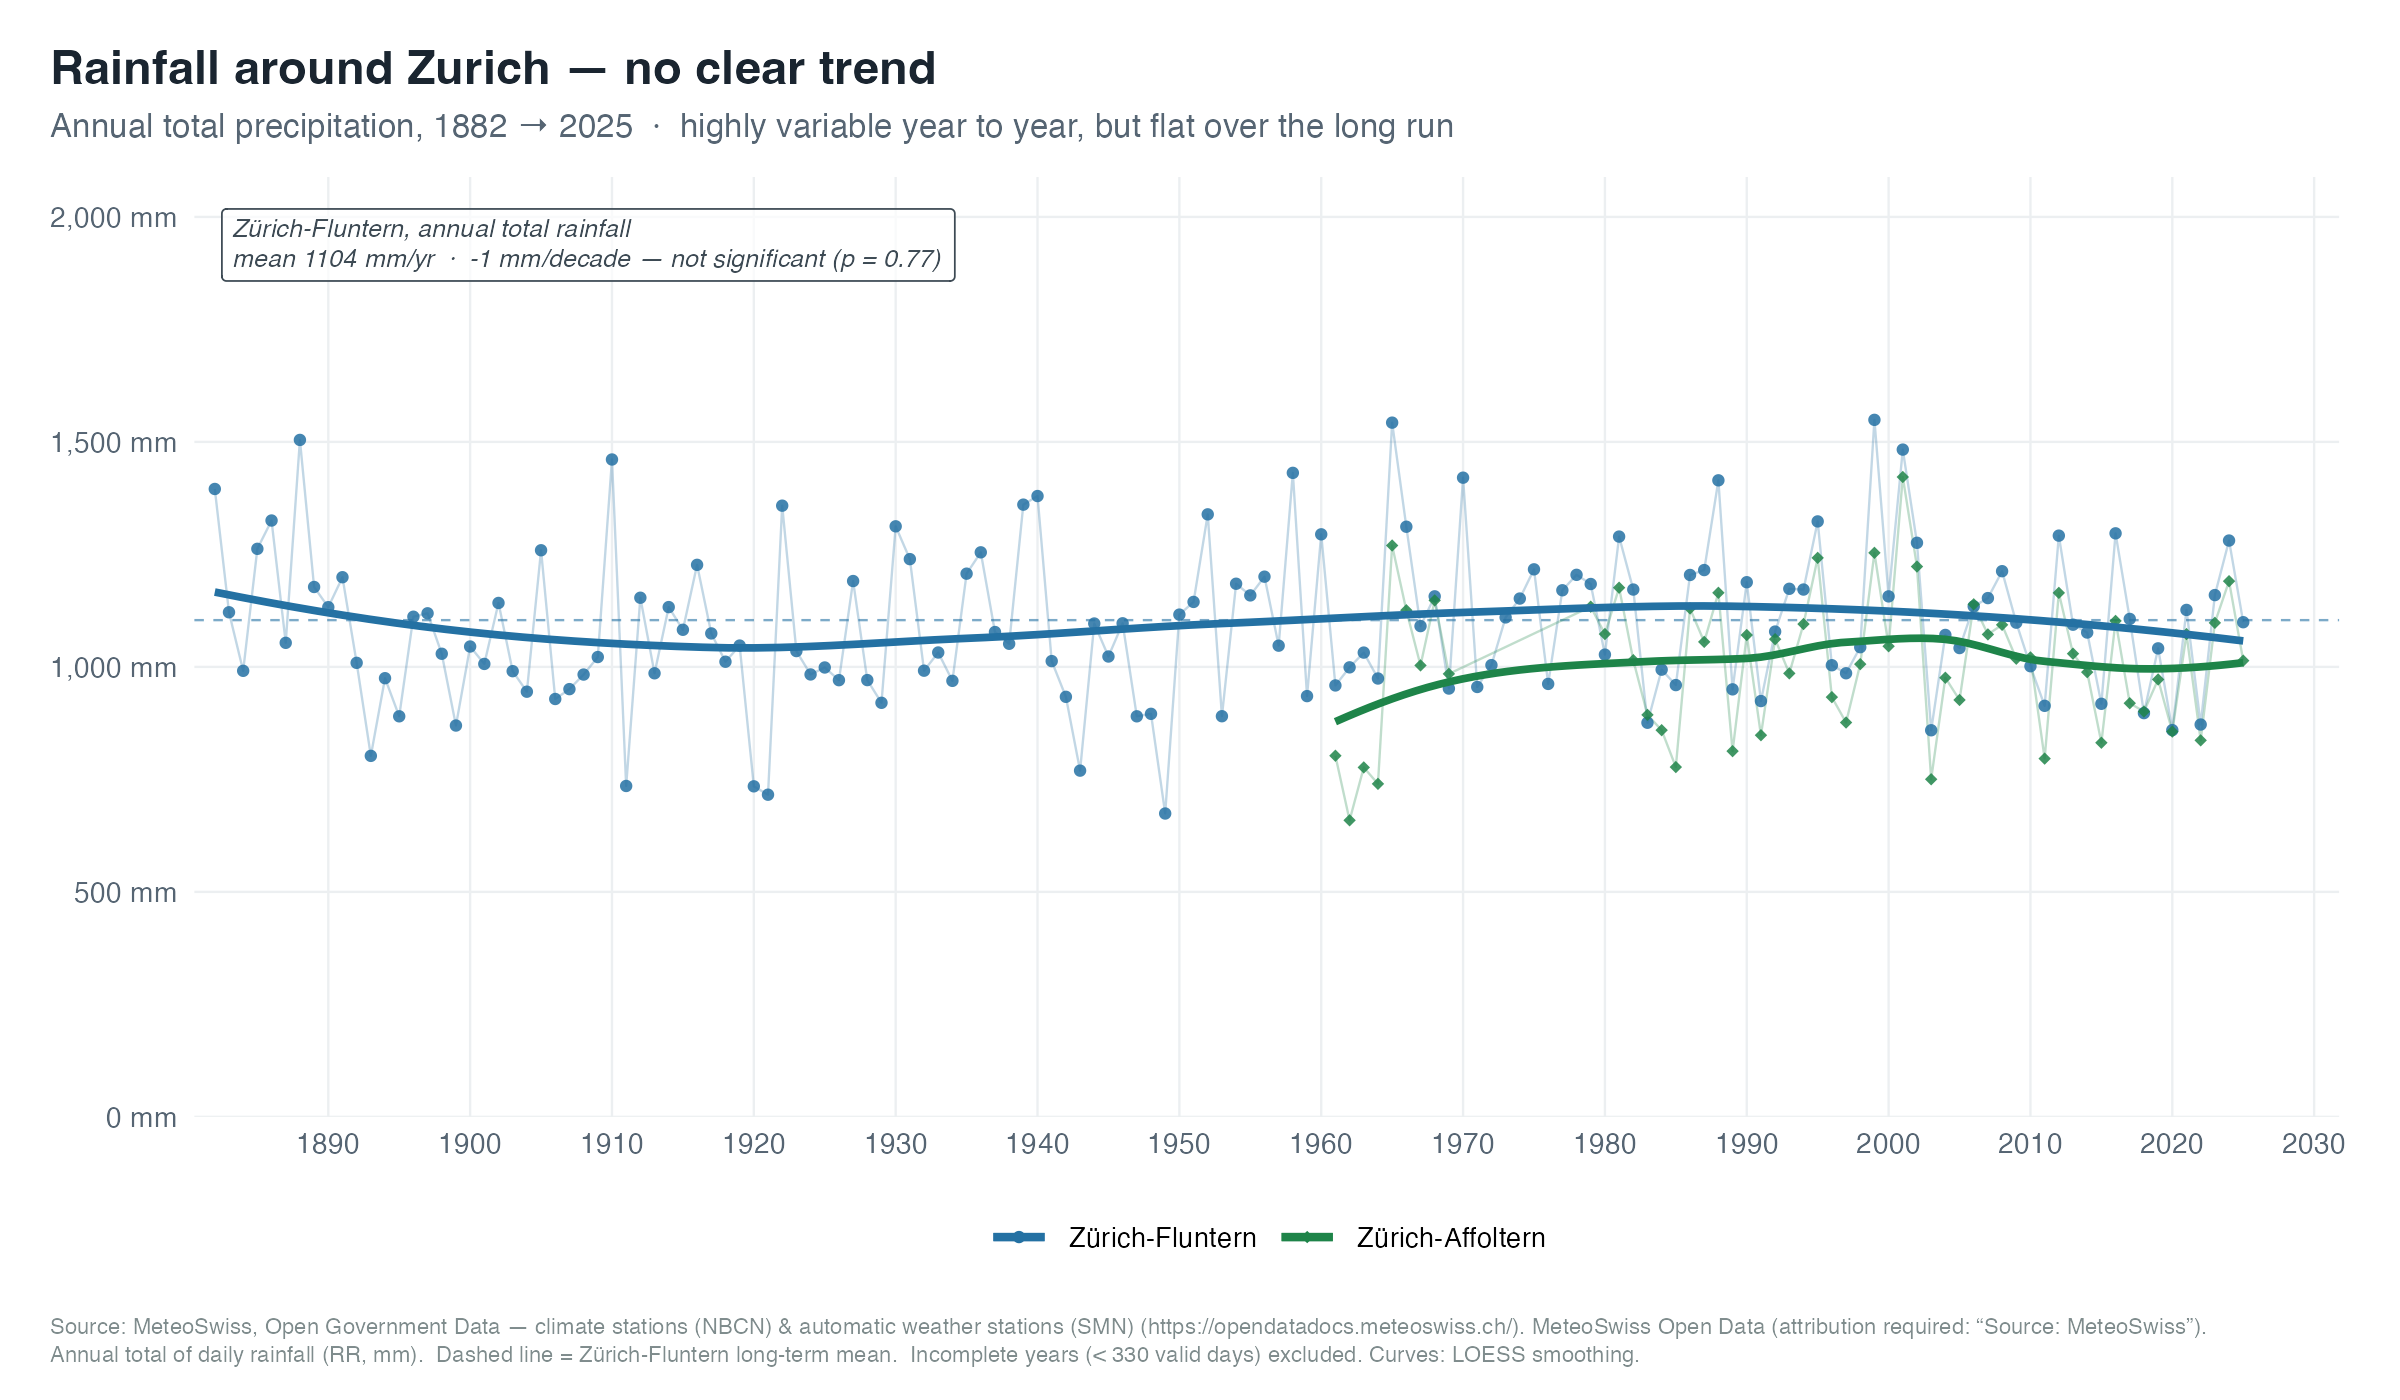
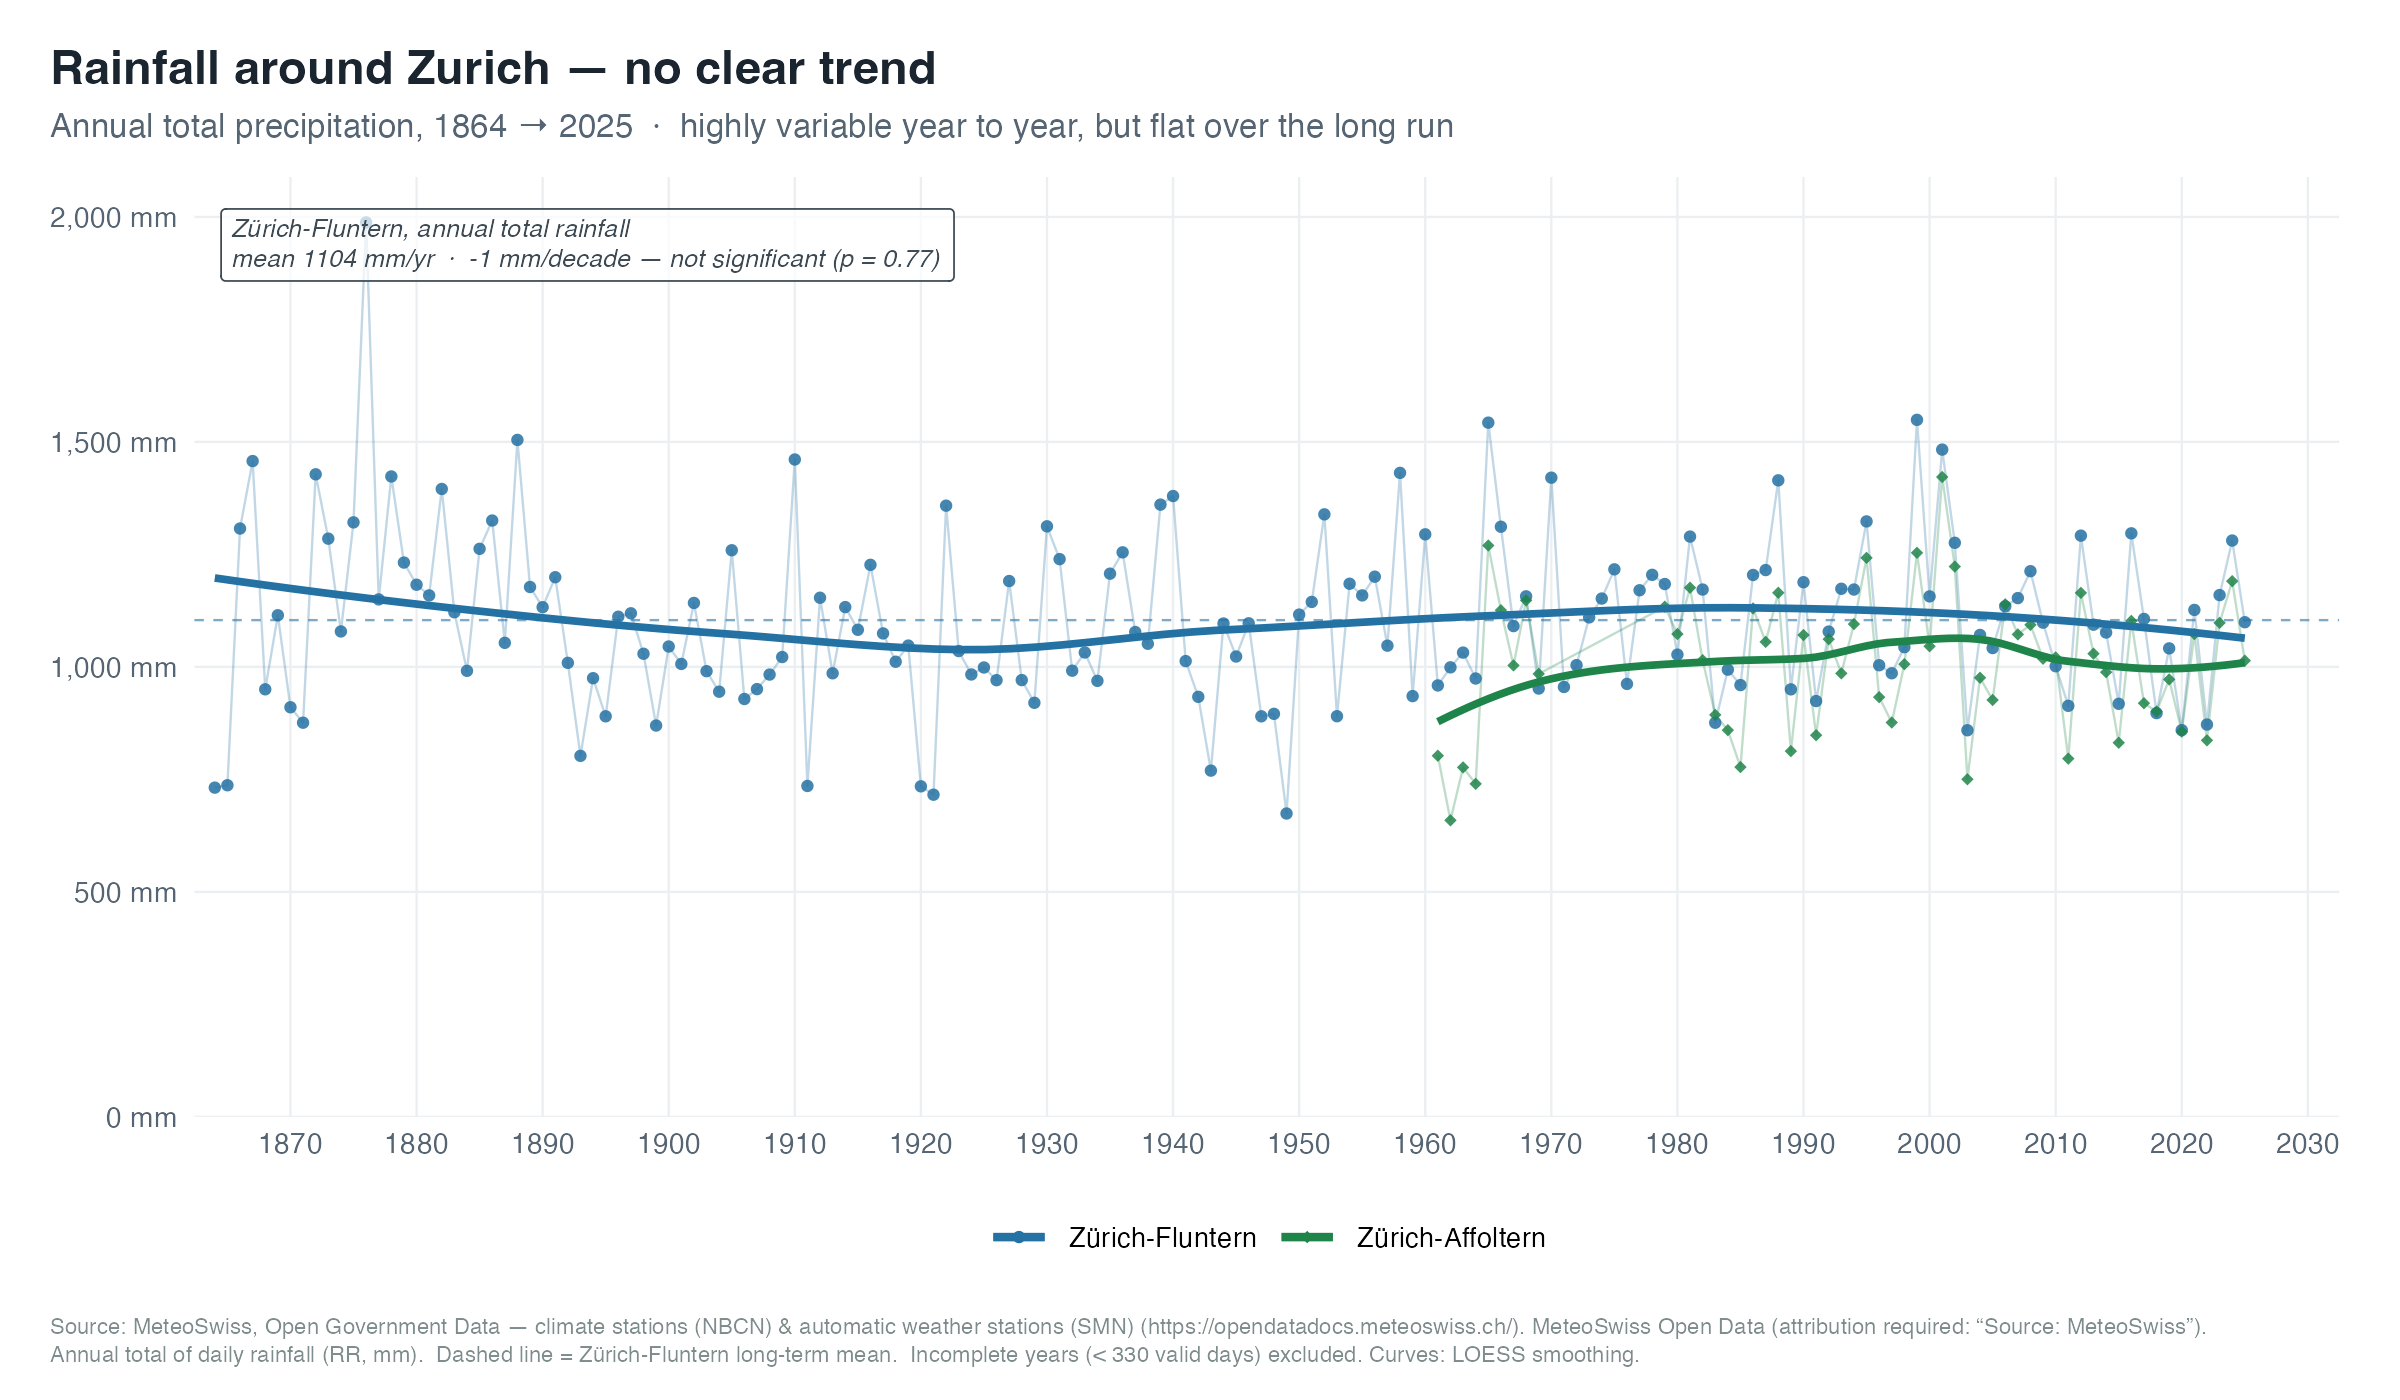
Refresh data through 2026-08 and fix rainfall/YTD narrative bugs
- Castanet: recompute TNTXM as (TN+TX)/2 for consistency with the
  Zurich/Karlsruhe source modules, instead of using Meteo-France own
  daily-mean field.
- YTD chart title/subtitle now branch on whether the current year is
  actually the record, instead of always claiming "warmest on record"
  (Karlsruhe 2026 ranks #2, behind 2007).
- Rainfall significance text now reflects the real p-value instead of
  a hardcoded "not significant" (Karlsruhe rainfall trend is in fact
  significant, p = 0.00).
- Fix Zurich rain chart silently dropping 1864-1881 by using the rain
  series own year range instead of the temperature series range.
- HTML report last-decade table now flags the in-progress year
  "(to date)", matching the README.

diff --git a/README.md b/README.md
@@ -29,12 +29,12 @@ steadily and continuously.
 | Headline number | Value |
 |---|---:|
 | Warming rate, mean temperature (Toulouse-Blagnac) | **+0.34 °C / decade** |
-| Total rise over 78 years (1947 → 2025) | **+2.7 °C** |
+| Total rise over 78 years (1947 → 2025) | **+2.6 °C** |
 | Mean of the last decade (vs 12.9 °C in 1947–1956) | **15.2 °C** |
 | Frost days per year, 1947–1956 → 2016–2025 | **46 → 18** |
 | Hot days (≥ 30 °C) per year, 1947–1956 → 2016–2025 | **24 → 47** |
 | Complete station-years analysed | **101** |
-| 2026 year-to-date (Jan 1 – Aug 8), against 79 prior years | **#1 of 80 — record** |
+| 2026 year-to-date (Jan 1 – Aug 11), against 79 prior years | **#1 of 80 — record** |
 
 ### The long view: annual means
 
@@ -44,20 +44,20 @@ steadily and continuously.
 highlight the climate trend; the points are annual means. The green series (Auzeville-Tolosane-INRAE) is the station on the edge of Castanet-Tolosan; it tracks the long Toulouse-Blagnac reference mean almost exactly.</sub>
 
 At Toulouse-Blagnac — the station with the longest record (1947→2025) — the annual
-mean temperature rises by **+0.34 °C per decade**, about **+2.7 °C** over the
+mean temperature rises by **+0.34 °C per decade**, about **+2.6 °C** over the
 whole period. The local Auzeville-Tolosane-INRAE station, which is the station on the edge of Castanet-Tolosan, only covers 2004→2025. Its slope over that shorter, more recent window is steeper (+0.83 °C/decade) — but so is Toulouse-Blagnac’s over the same years (+0.91 °C/decade): recent decades warm faster, and the local station sits almost exactly on the regional mean. The local and regional signals are the same.
 
 ### This year, against every year before it
 
 ![Per-year mean over the same Jan-to-cutoff window, as a departure from the long-term normal, with 2026 the largest bar](outputs/figures/temperature_ytd.png)
 
-<sub>Each bar is a year’s mean over the <em>same window</em> — <strong>Jan 1 – Aug 8</strong> —
-shown as its departure from the long-term normal (13.4 °C): red above, blue
+<sub>Each bar is a year’s mean over the <em>same window</em> — <strong>Jan 1 – Aug 11</strong> —
+shown as its departure from the long-term normal (13.5 °C): red above, blue
 below. Comparing each year over the identical part-of-year is the only fair way to place
 a year that is still in progress against history. The bars swing from blue to red over
 the decades — the warming.</sub>
 
-Measured like-for-like, **2026 is the warmest Jan 1 – Aug 8 in 80 years** at Toulouse-Blagnac: **16.7 °C** — +0.9 °C above the previous record (2025, 15.8 °C) and **+3.2 °C above the long-term normal** (13.4 °C). This is exactly the point of the chart: a year still in progress can already stand out against the whole record.
+Measured like-for-like, **2026 is the warmest Jan 1 – Aug 11 in 80 years** at Toulouse-Blagnac: **16.8 °C** — +0.8 °C above the previous record (2025, 16.0 °C) and **+3.3 °C above the long-term normal** (13.5 °C). This is exactly the point of the chart: a year still in progress can already stand out against the whole record.
 
 > [!NOTE]
 > A partial year cannot be compared to other years’ *full-year* means — it is still
@@ -107,17 +107,17 @@ At Toulouse-Blagnac, the all-time heat (2023-08-23) is far more recent than the 
 
 | Year | Min (TN) | Max (TX) | Mean |
 |---|---:|---:|---:|
-| 2016 | 10.0 | 19.3 | **14.7** |
+| 2016 | 10.0 | 19.3 | **14.6** |
 | 2017 | 9.7 | 19.5 | **14.6** |
 | 2018 | 10.7 | 19.5 | **15.1** |
 | 2019 | 10.0 | 19.9 | **15.0** |
 | 2020 | 10.6 | 20.2 | **15.4** |
 | 2021 | 9.7 | 19.1 | **14.4** |
 | 2022 | 11.2 | 21.3 | **16.3** |
-| 2023 | 10.7 | 20.8 | **15.8** |
+| 2023 | 10.7 | 20.8 | **15.7** |
 | 2024 | 10.5 | 19.6 | **15.1** |
-| 2025 | 10.7 | 20.6 | **15.7** |
-| 2026 *(to date)* | 11.4 | 21.9 | **16.7** |
+| 2025 | 10.7 | 20.6 | **15.6** |
+| 2026 *(to date)* | 11.5 | 22.1 | **16.8** |
 
 ### Frost days halved, hot days doubled
 
@@ -142,17 +142,14 @@ Temperature is only half of a climate. Rainfall tells a very different — and m
 quieter — story: over the same 79 years, annual precipitation at
 Toulouse-Blagnac shows **no statistically significant trend**.
 
-![Annual rainfall totals around Castanet-Tolosan, with a flat long-term trend](outputs/figures/rain_series.png)
+![Annual rainfall totals around Castanet-Tolosan](outputs/figures/rain_series.png)
 
 <sub>Annual total precipitation. The dashed line is Toulouse-Blagnac’s long-term mean
 (633 mm/yr); the thick curves are LOESS smoothings. The year-to-year swings are
 large — from 378 mm (1967) to 915 mm (1993) —
-but the long-run slope (-8 mm/decade) is flat and not significant
-(p = 0.16).</sub>
+but the long-run slope (-8 mm/decade) is flat and not significant (p = 0.16).</sub>
 
-That contrast is the point. The very same daily records that show an unmistakable,
-statistically strong warming signal show *no* comparable signal in how much it rains. A
-dataset that manufactured trends would have produced one here too; this one does not.
+That contrast is the point. The very same daily records that show an unmistakable, statistically strong warming signal show *no* comparable signal in how much it rains. A dataset that manufactured trends would have produced one here too; this one does not.
 
 ![Monthly rainfall through the year at Toulouse-Blagnac, one line per year](outputs/figures/rain_climatology.png)
 
@@ -213,7 +210,7 @@ steadily and continuously.
 | Frost days per year, 1882–1891 → 2016–2025 | **111 → 61** |
 | Hot days (≥ 30 °C) per year, 1882–1891 → 2016–2025 | **4 → 12** |
 | Complete station-years analysed | **190** |
-| 2026 year-to-date (Jan 1 – Aug 9), against 143 prior years | **#1 of 144 — record** |
+| 2026 year-to-date (Jan 1 – Aug 12), against 143 prior years | **#1 of 144 — record** |
 
 ### The long view: annual means
 
@@ -230,13 +227,13 @@ whole period. The local Zürich-Affoltern station, which is MeteoSwiss’s autom
 
 ![Per-year mean over the same Jan-to-cutoff window, as a departure from the long-term normal, with 2026 the largest bar](outputs/zurich/figures/temperature_ytd.png)
 
-<sub>Each bar is a year’s mean over the <em>same window</em> — <strong>Jan 1 – Aug 9</strong> —
-shown as its departure from the long-term normal (9.2 °C): red above, blue
+<sub>Each bar is a year’s mean over the <em>same window</em> — <strong>Jan 1 – Aug 12</strong> —
+shown as its departure from the long-term normal (9.3 °C): red above, blue
 below. Comparing each year over the identical part-of-year is the only fair way to place
 a year that is still in progress against history. The bars swing from blue to red over
 the decades — the warming.</sub>
 
-Measured like-for-like, **2026 is the warmest Jan 1 – Aug 9 in 144 years** at Zürich-Fluntern: **12.6 °C** — +0.5 °C above the previous record (2022, 12.1 °C) and **+3.4 °C above the long-term normal** (9.2 °C). This is exactly the point of the chart: a year still in progress can already stand out against the whole record.
+Measured like-for-like, **2026 is the warmest Jan 1 – Aug 12 in 144 years** at Zürich-Fluntern: **12.8 °C** — +0.6 °C above the previous record (2022, 12.2 °C) and **+3.5 °C above the long-term normal** (9.3 °C). This is exactly the point of the chart: a year still in progress can already stand out against the whole record.
 
 > [!NOTE]
 > A partial year cannot be compared to other years’ *full-year* means — it is still
@@ -296,7 +293,7 @@ At Zürich-Fluntern, the all-time heat (2026-06-27) is far more recent than the 
 | 2023 | 7.8 | 15.8 | **11.8** |
 | 2024 | 7.7 | 15.0 | **11.4** |
 | 2025 | 7.0 | 14.9 | **11.0** |
-| 2026 *(to date)* | 7.7 | 17.5 | **12.6** |
+| 2026 *(to date)* | 7.8 | 17.7 | **12.8** |
 
 ### Frost days halved, hot days doubled
 
@@ -321,17 +318,14 @@ Temperature is only half of a climate. Rainfall tells a very different — and m
 quieter — story: over the same 162 years, annual precipitation at
 Zürich-Fluntern shows **no statistically significant trend**.
 
-![Annual rainfall totals around Zurich, with a flat long-term trend](outputs/zurich/figures/rain_series.png)
+![Annual rainfall totals around Zurich](outputs/zurich/figures/rain_series.png)
 
 <sub>Annual total precipitation. The dashed line is Zürich-Fluntern’s long-term mean
 (1104 mm/yr); the thick curves are LOESS smoothings. The year-to-year swings are
 large — from 674 mm (1949) to 1988 mm (1876) —
-but the long-run slope (-1 mm/decade) is flat and not significant
-(p = 0.77).</sub>
+but the long-run slope (-1 mm/decade) is flat and not significant (p = 0.77).</sub>
 
-That contrast is the point. The very same daily records that show an unmistakable,
-statistically strong warming signal show *no* comparable signal in how much it rains. A
-dataset that manufactured trends would have produced one here too; this one does not.
+That contrast is the point. The very same daily records that show an unmistakable, statistically strong warming signal show *no* comparable signal in how much it rains. A dataset that manufactured trends would have produced one here too; this one does not.
 
 ![Monthly rainfall through the year at Zürich-Fluntern, one line per year](outputs/zurich/figures/rain_climatology.png)
 
@@ -392,7 +386,7 @@ steadily and continuously.
 | Frost days per year, 1876–1885 → 2016–2025 | **67 → 59** |
 | Hot days (≥ 30 °C) per year, 1876–1885 → 2016–2025 | **7 → 26** |
 | Complete station-years analysed | **148** |
-| 2026 year-to-date (Jan 1 – Aug 9), against 149 prior years | **#2 of 150** |
+| 2026 year-to-date (Jan 1 – Aug 12), against 149 prior years | **#2 of 150** |
 
 ### The long view: annual means
 
@@ -409,13 +403,13 @@ whole period. Karlsruhe-Wolfartsweier carries no temperature record; Rheinstette
 
 ![Per-year mean over the same Jan-to-cutoff window, as a departure from the long-term normal, with 2026 the largest bar](outputs/karlsruhe/figures/temperature_ytd.png)
 
-<sub>Each bar is a year’s mean over the <em>same window</em> — <strong>Jan 1 – Aug 9</strong> —
-shown as its departure from the long-term normal (10.8 °C): red above, blue
+<sub>Each bar is a year’s mean over the <em>same window</em> — <strong>Jan 1 – Aug 12</strong> —
+shown as its departure from the long-term normal (10.9 °C): red above, blue
 below. Comparing each year over the identical part-of-year is the only fair way to place
 a year that is still in progress against history. The bars swing from blue to red over
 the decades — the warming.</sub>
 
-Measured like-for-like over Jan 1 – Aug 9, 2026 currently ranks **#2 of 150** at Rheinstetten (13.1 °C). The warmest such window on record remains 2007 (13.5 °C).
+Measured like-for-like over Jan 1 – Aug 12, 2026 currently ranks **#2 of 150** at Rheinstetten (13.3 °C). The warmest such window on record remains 2007 (13.6 °C).
 
 > [!NOTE]
 > A partial year cannot be compared to other years’ *full-year* means — it is still
@@ -473,7 +467,7 @@ At Rheinstetten, the all-time heat (2026-06-27) is far more recent than the all-
 | 2023 | 7.9 | 17.6 | **12.8** |
 | 2024 | 7.7 | 16.9 | **12.3** |
 | 2025 | 6.3 | 17.0 | **11.6** |
-| 2026 *(to date)* | 6.9 | 19.3 | **13.1** |
+| 2026 *(to date)* | 7.1 | 19.4 | **13.3** |
 
 ### Frost days halved, hot days doubled
 
@@ -496,19 +490,16 @@ off the calendar instead of the thermometer.</sub>
 
 Temperature is only half of a climate. Rainfall tells a very different — and much
 quieter — story: over the same 148 years, annual precipitation at
-Rheinstetten shows **no statistically significant trend**.
+Rheinstetten shows **a statistically significant trend (-11 mm/decade, p = 0.00)**.
 
-![Annual rainfall totals around Karlsruhe, with a flat long-term trend](outputs/karlsruhe/figures/rain_series.png)
+![Annual rainfall totals around Karlsruhe](outputs/karlsruhe/figures/rain_series.png)
 
 <sub>Annual total precipitation. The dashed line is Rheinstetten’s long-term mean
 (793 mm/yr); the thick curves are LOESS smoothings. The year-to-year swings are
 large — from 456 mm (1959) to 1452 mm (1882) —
-but the long-run slope (-11 mm/decade) is flat and not significant
-(p = 0.00).</sub>
+but the long-run slope (-11 mm/decade) is measurable and statistically significant (p = 0.00).</sub>
 
-That contrast is the point. The very same daily records that show an unmistakable,
-statistically strong warming signal show *no* comparable signal in how much it rains. A
-dataset that manufactured trends would have produced one here too; this one does not.
+Rainfall tells its own story here: unlike most of the sites in this series, Rheinstetten shows a real, if much smaller and slower, long-run trend toward drier conditions (-11 mm/decade, p = 0.00) — alongside the much larger and faster warming signal above.
 
 ![Monthly rainfall through the year at Rheinstetten, one line per year](outputs/karlsruhe/figures/rain_climatology.png)
 
